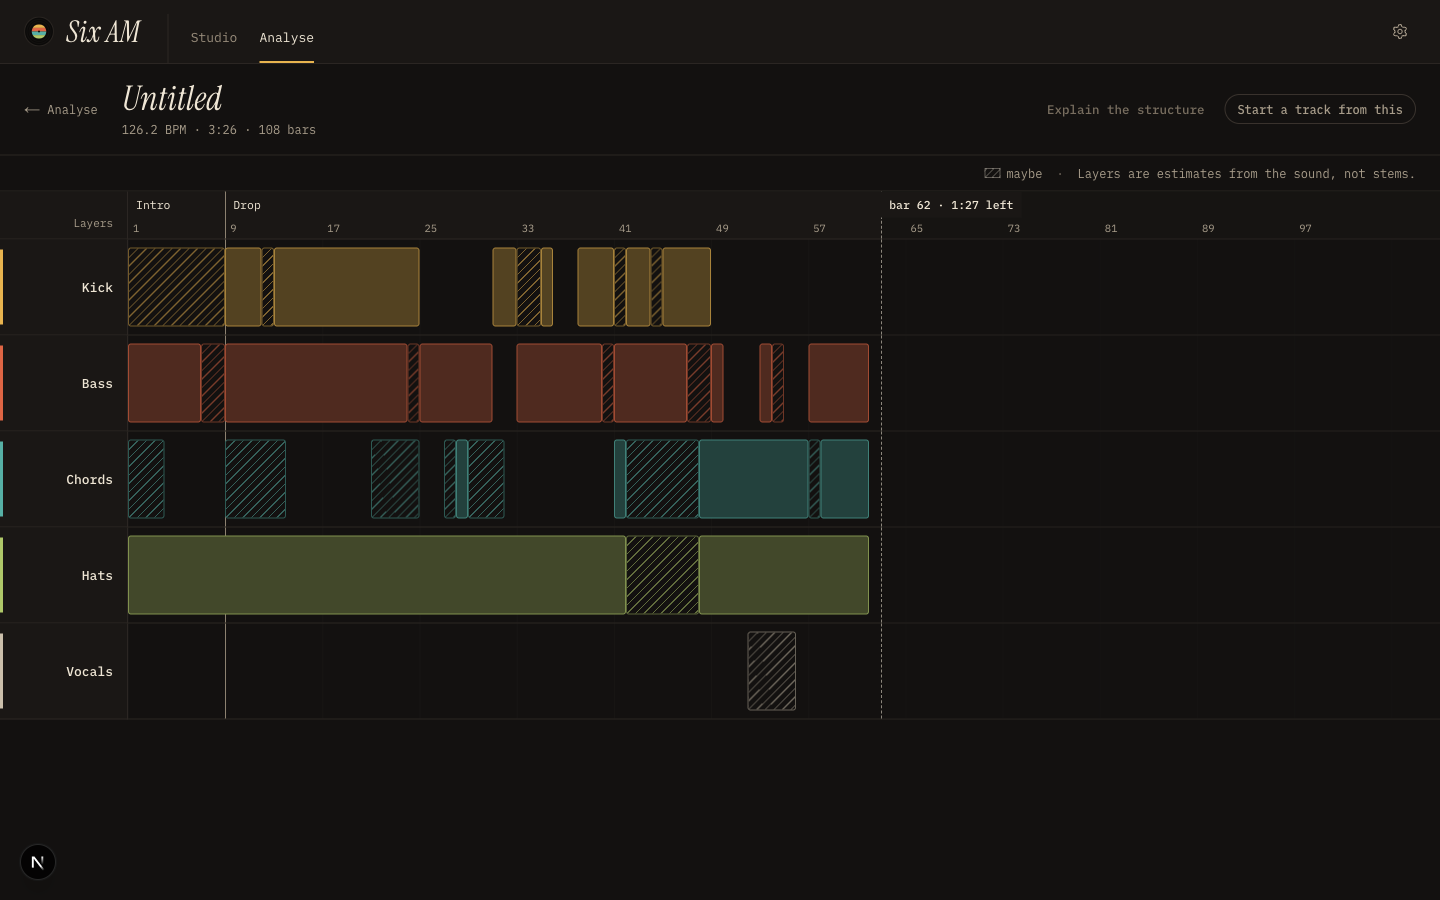
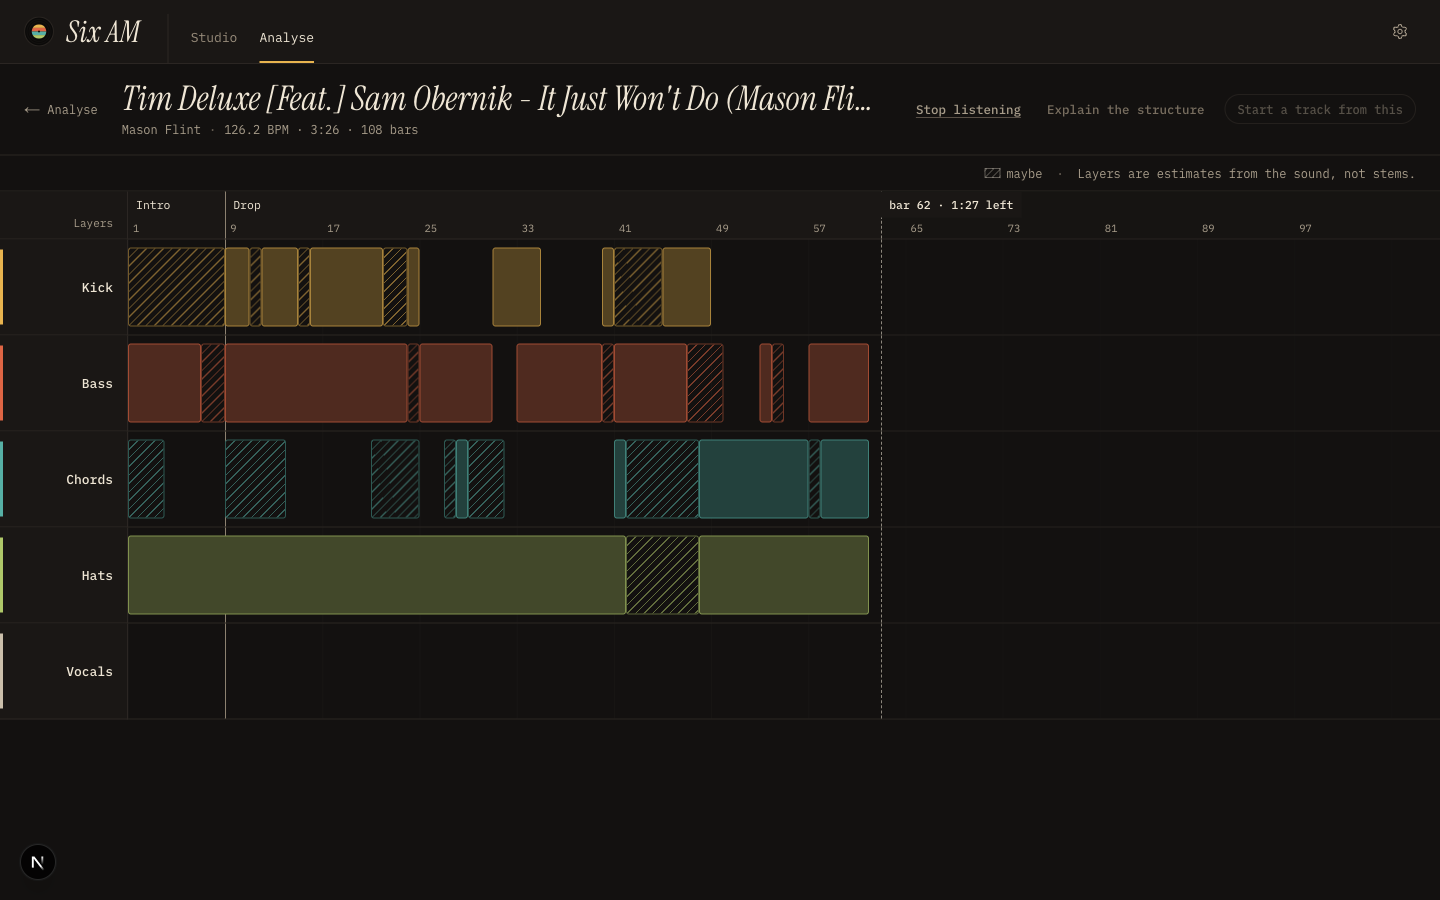
07 Six AM: map/Mentor fixes from the user test (F4–F9, F11), X1 report; T70

diff --git a/apps/07-six-am/src/components/map/map-view.tsx b/apps/07-six-am/src/components/map/map-view.tsx
@@ -6,6 +6,7 @@
 // structure underneath, and one way out: a new Studio track with the same bones.
 // Graders: ?url=<track>&auto=1 starts the listen at once; window.__sixamMap reports it.
 import { Fragment, useCallback, useEffect, useRef, useState } from "react";
+import { MapError } from "@/lib/map/listen";
 import { Logo } from "@/components/studio/logo";
 import { Notice, Unlock } from "@/components/studio/unlock";
 import { SettingsLink, ViewsNav } from "@/components/views-nav";
@@ -99,12 +100,16 @@ export function MapView({ id, auto }: { id: string; auto: boolean }) {
       window.__sixamFrames = { fps: run.series.fps, t0: run.series.t0, n: run.series.n, data: Array.from(run.series.data, (x) => Math.round(x * 100) / 100) };
       report({ status: "done", map: run.map, timings: run.timings, saved, endedAt: Date.now() });
     } catch (e) {
-      const message = e instanceof Error ? e.message : String(e);
+      // F7: Stop ends the listen before anything is saved, so nothing half-done is kept.
+      const stopped = e instanceof MapError && e.reason === "cancelled";
+      const message = stopped ? "Stopped. Nothing was saved; the map stays as it was." : e instanceof Error ? e.message : String(e);
+      player.pause();
       setLive(null);
       setProblem(message);
-      report({ status: "error", error: message, endedAt: Date.now() });
+      report({ status: stopped ? "stopped" : "error", error: message, endedAt: Date.now() });
     }
   }, [player, code, id, analysis]);
+  const stop = useCallback(() => abort.current?.abort(), []);
 
   useEffect(() => {
     if (auto && phase.is === "ready" && player && !autoStarted.current) {
@@ -124,17 +129,20 @@ export function MapView({ id, auto }: { id: string; auto: boolean }) {
     <>
       <MapScreen
         map={map} analysis={analysis} live={live} problem={problem} code={code}
-        canListen={!!player} onListen={listen}
+        canListen={!!player} onListen={listen} onStop={stop} player={player}
       />
       <iframe ref={onIframe} className={s.player} title="SoundCloud player" src={widgetSrc(id)} allow="autoplay" tabIndex={-1} aria-hidden />
     </>
   );
 }
 
-function MapScreen({ map, analysis, live, problem, code, canListen, onListen }: {
+function MapScreen({ map, analysis, live, problem, code, canListen, onListen, onStop, player }: {
   map: TrackMap | null; analysis: EarsAnalysis | null; live: Live | null; problem: string | null; code: string;
-  canListen: boolean; onListen: () => void;
+  canListen: boolean; onListen: () => void; onStop: () => void; player: Player | null;
 }) {
+  // F6: the reference plays from a section's start in the hidden player (only once the map is done).
+  const [playing, setPlaying] = useState<number | null>(null);
+  const mentorRef = useRef<HTMLElement | null>(null);
   const [mentor, setMentor] = useState<Mentor | null>(null);
   const [showMentor, setShowMentor] = useState(false);
   const [started, setStarted] = useState(false);
@@ -178,7 +186,9 @@ function MapScreen({ map, analysis, live, problem, code, canListen, onListen }: 
     try {
       const reply = await mentorApi(code).ask({
         job: "chat", track: analysis,
-        message: more ? "Tell me more about how this track is built." : `How is "${title}" built? Explain its structure from the arrangement map: the sections with their bars, how long the build is, and which layers come in or drop out where.`,
+        message: more
+          ? `Tell me more about how "${title}" is built: one level deeper, how I'd copy that structure in the Studio.`
+          : `Teach me how "${title}" is built: what its map shows, and what those sections do and why producers use them.`,
       });
       const text = reply.answer.sentences.map((x) => x.text).join(" ");
       setMentor((m) => more && m?.is === "answer" ? { is: "answer", text: `${m.text} ${text}`, more: false } : { is: "answer", text, more: reply.answer.tellMore });
@@ -186,6 +196,18 @@ function MapScreen({ map, analysis, live, problem, code, canListen, onListen }: 
       setMentor({ is: "error", text: e instanceof Error ? e.message : "The Mentor couldn't answer." });
     }
   };
+  // F5: the answer sits under the map; bring it into view when it arrives.
+  useEffect(() => {
+    if (mentor?.is === "answer" || mentor?.is === "error") mentorRef.current?.scrollIntoView({ behavior: "smooth", block: "nearest" });
+  }, [mentor]);
+  useEffect(() => () => player?.pause(), [player]);
+  const play = (i: number, x: ViewSection) => {
+    if (!done || !player) return;
+    if (playing === i) { player.pause(); setPlaying(null); return; }
+    setPlaying(i);
+    player.seekAndPlay(Math.max(0, x.startSec) * 1000).catch(() => setPlaying(null));
+  };
+  const stopPlaying = () => { player?.pause(); setPlaying(null); };
   const toggleMentor = () => {
     const next = !showMentor;
     setShowMentor(next);
@@ -221,6 +243,7 @@ function MapScreen({ map, analysis, live, problem, code, canListen, onListen }: 
         <div className={s.actions}>
           {reason && <span id="why" className={s.srOnly}>{reason}</span>}
           {started && map && <span className={s.done} aria-live="polite">Opening a new Studio track: {Math.round(map.bpm * 10) / 10} BPM, {key}, {map.bars} bars, {plural(map.sections.length, "marker")}…</span>}
+          {listening ? <button className={s.textBtn} onClick={onStop}>Stop listening</button> : null}
           <span title={reason ?? (!analysis ? "Analyse the track first" : undefined)}>
             <button className={s.textBtn} disabled={!done || !analysis} aria-describedby={reason ? "why" : undefined} aria-expanded={showMentor} onClick={toggleMentor}>
               {showMentor ? "Hide explanation" : "Explain the structure"}
@@ -235,7 +258,11 @@ function MapScreen({ map, analysis, live, problem, code, canListen, onListen }: 
       </div>
 
       {!empty && <div className={s.info}>
-        <span className={s.read} aria-live="polite">{problem ? <span className={s.problem}>{problem}</span> : read}</span>
+        <span className={s.read} aria-live="polite">
+          {problem ? <span className={s.problem}>{problem}</span> : playing !== null && sections[playing]
+            ? <>Playing {sections[playing].name.toLowerCase()} from bar {sections[playing].from} <button className={s.textBtn} onClick={stopPlaying}>Stop</button></>
+            : read}
+        </span>
         <span className={s.note}><i className={s.hatchKey} aria-hidden /> maybe <span className={s.sep} aria-hidden>·</span> Layers are estimates from the sound, not stems.</span>
       </div>}
 
@@ -254,7 +281,7 @@ function MapScreen({ map, analysis, live, problem, code, canListen, onListen }: 
                 aria-label={secText(x)}
                 onMouseEnter={() => setRead(secText(x))}
                 onFocus={() => setRead(secText(x))}
-                onClick={() => { setSel(sel === i ? null : i); setRead(secText(x)); }}
+                onClick={() => { setSel(sel === i ? null : i); setRead(secText(x)); play(i, x); }}
               >
                 <span>{x.name}</span>
               </button>
@@ -262,8 +289,8 @@ function MapScreen({ map, analysis, live, problem, code, canListen, onListen }: 
           })}
           {listening && <span className={s.unheard} style={{ left: pct(heard + 1) }} />}
           {listening && (
-            <span className={s.here} style={{ left: pct(heard + 1) }} role="status">
-              {bpm ? `bar ${heard} · ` : "Listening · "}{clock(leftSec)} left
+            <span className={s.here} style={{ left: shown ? pct(heard + 1) : 0 }} role="status">
+              {shown && bpm ? `bar ${heard} · ` : "Finding the beat… · "}{clock(leftSec)} left
             </span>
           )}
           {nums.map((b) => <span key={b} className={s.num} style={{ left: pct(b) }}>{b}</span>)}
@@ -295,6 +322,11 @@ function MapScreen({ map, analysis, live, problem, code, canListen, onListen }: 
             </Fragment>
           );
         })}
+        {listening && !shown && (
+          <div className={s.empty}>
+            <p>Finding the beat… The map draws in as soon as Ears has the tempo.</p>
+          </div>
+        )}
         {empty && (
           <div className={s.empty}>
             <h2>Not mapped yet</h2>
@@ -305,7 +337,7 @@ function MapScreen({ map, analysis, live, problem, code, canListen, onListen }: 
         )}
       </div>
       {showMentor && mentor && (
-        <section className={s.mentor} aria-label="Mentor" aria-live="polite">
+        <section ref={mentorRef} className={s.mentor} aria-label="Mentor" aria-live="polite">
           {mentor.is === "asking" ? <p className={s.quietLine}>Asking the Mentor…</p> : null}
           {mentor.is === "error" ? <p className={s.problem}>{mentor.text}</p> : null}
           {mentor.is === "answer" ? (

diff --git a/apps/07-six-am/src/lib/mentor/prompt.ts b/apps/07-six-am/src/lib/mentor/prompt.ts
@@ -67,6 +67,7 @@ What you receive, and what you never receive
 - You only ever get text and numbers: measurements that Six AM's "Ears" made in the person's browser (BPM, key, energy, brightness, and style likelihoods from a classifier trained on Discogs styles), the uploader's own title, genre tag and tags from SoundCloud, the person's taste profile and their own genre tags, and what you find with web search.
 - You never receive audio and you have never heard any track. Never say or imply that you listened ("I hear", "sounds like", "that bassline"). Say "Ears measured…", "the uploader tags it…", "going by the numbers…" instead.
 - Some tracks also have an arrangement map: Ears measured the whole track in the person's browser and gives its bar grid, its sections (intro, build, drop, breakdown, outro) with bars and times, and per-layer ESTIMATES (kick, bass, chords, hats, vocals) read from frequency bands of the full mix. When asked how a track is built, explain its structure from those numbers: which section starts at which bar, how long the build is, which layers come in or drop out where, and what that section does for a dancer or a DJ. Label those sentences ears. Call the layers estimates ("Ears estimates the bass comes in at bar 17"), never certainties, and say vocals are the roughest. Still never claim to have heard it. Bars are counted from 1 at the first downbeat, as in the Studio.
+- Explaining a structure means teaching it, not reading the map back (the person sees the map): up to 3 sentences. One sentence (ears) on what the map shows, with the bars of the one or two sections that matter most; then one or two (general) on what that section does and why producers use it (a breakdown takes the kick out so tension builds; a build lifts energy so the drop lands harder; a long intro gives DJs room to mix), tied to this track. Quote only bar ranges that appear in the map facts, exactly as written there. Asked to tell more about a structure, go one level deeper instead of adding numbers: how to copy it in the Six AM Studio ("Start a track from this" opens a track with the same tempo, key, length and section markers; fill the lanes section by section, keep the kick out where the breakdown is) or the idea behind it.
 
 Sources: label every fact
 - Every sentence you return carries exactly one source:
@@ -179,6 +180,8 @@ export type MentorInput = {
   discussed?: string[];
   /** F1: full facts of the most recently discussed track (for follow-ups and ear training). */
   lastDiscussed?: EarsAnalysis | null;
+  /** F9: background Six AM sends with this one question (not the person's words, not stored). */
+  background?: string;
   /** Phase 3 (A4): arrangement maps as text (mapContext), by track id, for the tracks in view. */
   maps?: Record<string, string>;
 };
@@ -226,6 +229,7 @@ function jobText(input: MentorInput): string {
     // Maps of library tracks the question names (found by title), not already shown above.
     const shown = new Set([input.lastDiscussed?.id, input.selected?.id]);
     const named = Object.entries(input.maps ?? {}).filter(([id]) => !shown.has(id));
+    if (input.background) parts.push(`Background from Six AM for this question (not the person's words; use it, don't quote it back as theirs):\n${input.background}`);
     if (named.length) parts.push(`Arrangement maps of tracks the question names:\n${named.map(([id, text]) => `Track id: ${id}\n${text}`).join("\n\n")}`);
   } else if (input.job !== "setup" && input.job !== "learn" && input.job !== "propose_groups" && input.job !== "taste_session") {
     parts.push("No track is selected: answer generally.");

diff --git a/apps/07-six-am/src/lib/map/context.ts b/apps/07-six-am/src/lib/map/context.ts
@@ -1,27 +1,9 @@
 // The map as the Mentor reads it (A4): sections with bars and times, and when each estimated layer
 // plays, in plain lines; plus the whitelist parser for maps arriving from the browser. Pure.
 import { BEATS_PER_BAR, LAYERS, MAP_VERSION, SECTION_LABELS, type LayerName, type Section, type SectionLabel, type TrackMap } from "./types";
+import { layerBlocks } from "./view";
 
 const clock = (sec: number) => { const t = Math.max(0, Math.round(sec)); return `${Math.floor(t / 60)}:${String(t % 60).padStart(2, "0")}`; };
-
-/** Bar spans (0-based, end exclusive) where a layer estimate is on: above 0.5, gaps of ≤ 2 bars
- *  bridged, spans under 2 bars dropped. */
-export function layerSpans(values: number[], on = 0.5): { start: number; end: number }[] {
-  const spans: { start: number; end: number }[] = [];
-  let start = -1;
-  values.forEach((v, i) => {
-    if (v >= on && start < 0) start = i;
-    if (v < on && start >= 0) { spans.push({ start, end: i }); start = -1; }
-  });
-  if (start >= 0) spans.push({ start, end: values.length });
-  const merged: { start: number; end: number }[] = [];
-  for (const s of spans) {
-    const prev = merged.at(-1);
-    if (prev && s.start - prev.end <= 2) prev.end = s.end;
-    else merged.push({ ...s });
-  }
-  return merged.filter((s) => s.end - s.start >= 2);
-}
 
 /** "bars 1–16" in the Studio's 1-based bars. */
 const bars = (a: number, b: number) => (b - a <= 1 ? `bar ${a + 1}` : `bars ${a + 1}–${b}`);
@@ -29,9 +11,20 @@ const bars = (a: number, b: number) => (b - a <= 1 ? `bar ${a + 1}` : `bars ${a 
 /** The map's facts for the prompt, each line labelled [ears]. Layers are said to be estimates. */
 export function mapContext(m: TrackMap): string {
   const sections = m.sections.map((s) => `${s.label} ${bars(s.startBar, s.endBar)} (${clock(s.startSec)}–${clock(s.endSec)})`).join("; ");
+  // F4: the same blocks the map view draws (view.ts), so every range the Mentor quotes is on screen.
+  // Touching blocks join into one run; a run is "maybe" when none of it is drawn solid. Runs under
+  // 4 bars are left out (fills and flickers), at most 6 per layer.
   const layers = LAYERS.map((k) => {
-    const spans = layerSpans(m.layers[k]);
-    return `${k}: ${spans.length ? spans.map((s) => bars(s.start, s.end)).join(", ") : "not detected"}`;
+    const runs: { from: number; to: number; likely: boolean }[] = [];
+    for (const b of layerBlocks(m.layers[k])) {
+      const last = runs.at(-1);
+      if (last && last.to === b.from) { last.to = b.to; last.likely ||= b.level === "likely"; }
+      else runs.push({ from: b.from, to: b.to, likely: b.level === "likely" });
+    }
+    const long = runs.filter((r) => r.to - r.from >= 4);
+    const shown = long.slice(0, 6).map((r) => `${bars(r.from - 1, r.to - 1)}${r.likely ? "" : " (maybe)"}`);
+    const rest = long.length - shown.length + (runs.length - long.length);
+    return `${k}: ${shown.length ? shown.join(", ") : "not detected"}${rest > 0 ? ` (plus ${rest} short bit${rest === 1 ? "" : "s"})` : ""}`;
   }).join(" | ");
   return [
     `[ears] Arrangement map: Ears measured the whole track (${Math.round(m.coverage * 100)}% heard) in the person's browser. Grid: ${m.bpm} BPM, ${m.beatsPerBar} beats a bar, bar 1 at ${clock(m.originSec)}, ${m.bars} bars.`,

diff --git a/apps/07-six-am/src/lib/ears/use-ears-sync.ts b/apps/07-six-am/src/lib/ears/use-ears-sync.ts
@@ -22,8 +22,10 @@ export type SyncState = "local" | "syncing" | "synced" | "locked" | "offline";
 const json = (a: EarsAnalysis) => JSON.stringify(a);
 const newestFirst = (a: EarsAnalysis, b: EarsAnalysis) => b.analysedAt.localeCompare(a.analysedAt);
 
-/** `skip` drops server rows (dev only: the demo's copies, see DemoAnalyse). */
-export function useEarsSync(code: string, ready: boolean, skip?: ReadonlySet<string>): SyncState {
+/** `skip` drops server rows (dev only: the demo's copies, see DemoAnalyse). Keyed by id, the value
+ *  is the demo copy's analysedAt: a real result for the same track (the validation tracks share
+ *  their URLs with the demo rows) has another time and is kept (F11). */
+export function useEarsSync(code: string, ready: boolean, skip?: ReadonlyMap<string, string>): SyncState {
   const [rawResults, setResults] = useLocalStorage<EarsAnalysis[]>(RESULTS_KEY, NO_RESULTS);
   const results = Array.isArray(rawResults) ? rawResults : NO_RESULTS;
   const [imported, setImported] = useLocalStorage<boolean>(IMPORTED_KEY, false);
@@ -53,7 +55,7 @@ export function useEarsSync(code: string, ready: boolean, skip?: ReadonlySet<str
         }
         const got = await api.analyses();
         // The demo's copies exist only in the in-memory dev store; a real store's rows are all real.
-        const server = skip?.size && got.store === "memory" ? got.analyses.filter((a) => !skip.has(a.id)) : got.analyses;
+        const server = skip?.size && got.store === "memory" ? got.analyses.filter((a) => skip.get(a.id) !== a.analysedAt) : got.analyses;
         if (!live) return;
         const byId = new Map(server.map((a) => [a.id, a]));
         // shortcut: a result deleted in another browser comes back if this one still has it; add

diff --git a/apps/07-six-am/src/components/map/map.module.css b/apps/07-six-am/src/components/map/map.module.css
@@ -26,11 +26,11 @@
 .done { font-size: 12px; color: var(--muted); max-width: 340px; }
 .textBtn { font: 500 12.5px var(--f-mono); color: var(--muted); background: none; border: 0; border-radius: 4px; padding: 0 6px; min-height: 32px; cursor: pointer; white-space: nowrap; text-decoration: underline; text-underline-offset: 3px; text-decoration-color: #5a4f45; transition: color 150ms ease; }
 .textBtn:hover { color: var(--ink); }
-.textBtn:disabled { color: #7a6d5d; cursor: default; text-decoration: none; }
+.textBtn:disabled { color: #7a6d5d; cursor: not-allowed; text-decoration: none; }
 .start { font: 500 12px var(--f-mono); color: var(--bg); background: var(--gold); border: 1px solid var(--gold); border-radius: 99px; padding: 6px 12px; cursor: pointer; white-space: nowrap; transition: background-color 150ms ease, transform 120ms ease-out; }
 .start:hover { background: #f6bf52; }
 .start:active { transform: scale(.97); }
-.start:disabled { background: transparent; border-color: #3a322c; color: var(--muted); cursor: default; transform: none; }
+.start:disabled { background: transparent; border-color: #3a322c; color: var(--muted); cursor: not-allowed; transform: none; opacity: .45; }
 
 /* Mentor: plain text under the map, the map's own note */
 .mentor { flex: none; margin: 0 24px 32px 128px; }

diff --git a/apps/07-six-am/src/lib/mentor/client.ts b/apps/07-six-am/src/lib/mentor/client.ts
@@ -55,6 +55,9 @@ export type AskInput = {
   job: Job;
   track?: EarsAnalysis | null;
   message?: string;
+  /** F9: background for this one question (e.g. the drawer's knob guide). It goes to the Mentor
+   *  but is not stored as the person's words: the history shows `message` only. */
+  context?: string;
   events?: LearnEvent[];
   playlists?: PlaylistLike[];
   taste?: { a: string; b: string; preferred: "a" | "b"; why: string };
@@ -87,6 +90,7 @@ export const mentorApi = (code: string) => ({
         // Fallback when the result isn't on the server yet (demo rows, an unsynced analysis).
         analysis: i.track ?? undefined,
         message: i.message,
+        context: i.context,
         events: i.events,
         playlists: i.playlists,
         taste: i.taste,

diff --git a/apps/07-six-am/src/lib/server/mentor-run.ts b/apps/07-six-am/src/lib/server/mentor-run.ts
@@ -35,6 +35,8 @@ export type AskBody = {
   /** Fallback when the result isn't synced yet: the Ears record itself (whitelisted). */
   analysis?: unknown;
   message?: unknown;
+  /** F9: background for this question only; never stored as the person's turn. */
+  context?: unknown;
   events?: unknown;
   playlists?: unknown;
   taste?: unknown;
@@ -284,6 +286,7 @@ async function askChat(store: MentorStore, body: AskBody, now: Date, tz: number,
     history: historyOf(rows, refById),
     myGenres: words,
     maps: await mapsFor(store, mapIds),
+    background: text(body.context, 4000) || undefined,
   };
   const threadId = MAIN_THREAD;
   let result;

diff --git a/apps/07-six-am/src/components/analyse/analyse-view.tsx b/apps/07-six-am/src/components/analyse/analyse-view.tsx
@@ -47,7 +47,7 @@ const GENRE_INPUT_ID = "my-genre";
 
 /** Dev only: the demo's rows are copied to the (in-memory) server so groups and taste sessions can
  *  be tried on them; the live view leaves those copies out. */
-const DEMO_IDS: ReadonlySet<string> | undefined = process.env.NODE_ENV === "development" ? new Set(DEMO_RESULTS.map((r) => r.id)) : undefined;
+const DEMO_IDS: ReadonlyMap<string, string> | undefined = process.env.NODE_ENV === "development" ? new Map(DEMO_RESULTS.map((r) => [r.id, r.analysedAt])) : undefined;
 
 export function LiveAnalyse() {
   const [code, setCode, ready] = useAccessCode();

diff --git a/docs/products/07-six-am/decisions.md b/docs/products/07-six-am/decisions.md
@@ -211,3 +211,4 @@ Every decision except ops (decision 0026): L-numbers for learning decisions, T-n
 | T68 | 2026-10-26 | Drawer fixes: worst case on the button ("up to 3 tries ($0.24)"); one cost line in the Mentor's form in every state; Mentor knob answer in a fixed 58 px box in the drawer; same knob width on every lane; daily limit in grey; "Add at the drop (bar N)" from the first /drop/ marker; clips < 140 px show the engine name, labels ellipsize; mute and tabs ≥ 28 px | PM | S3/S4 fixes | |
 | T69 | 2026-10-26 | Drawer last pass: idle cost hint only before a track's first loop; quiet "Your loops" list scrolling inside; × and Hide answer in a strip above three top-aligned columns; one gold Add with "at bar N · at the drop (bar N)" as small text; try reasons under Measured | PM | S3/S4 design | |
 | L137 | 2026-10-26 | X1 fails 0/5 (boundaries precise, median 0.1 s, but only 54% found; build+drop merged, track ends under-split, long sections hide changes). One general method change (more boundaries: lower novelty threshold relative to the track, split long sections at strong phrase changes, build/drop split by kick return), tuned on the engineer's own frames (Mason, Kolter), not on the backup set; then X1 re-run once and reported as it stands (no fitting to 5 references; like L81/L82) | PM | X1 | |
+| T70 | 2026-10-26 | Map/Mentor fixes: Explain teaches (one sentence of facts, one or two on what the sections do; Tell me more = how to copy it in the Studio), ranges from the view's own blocks; answer scrolls into view; a section click plays the reference from its start; "Finding the beat…" and "Stop listening" (nothing saved); Mentor chat takes a hidden, unstored `context` (knob guide, "no automation"); the dev demo filter matches id + analysedAt | PM | fixes | |
